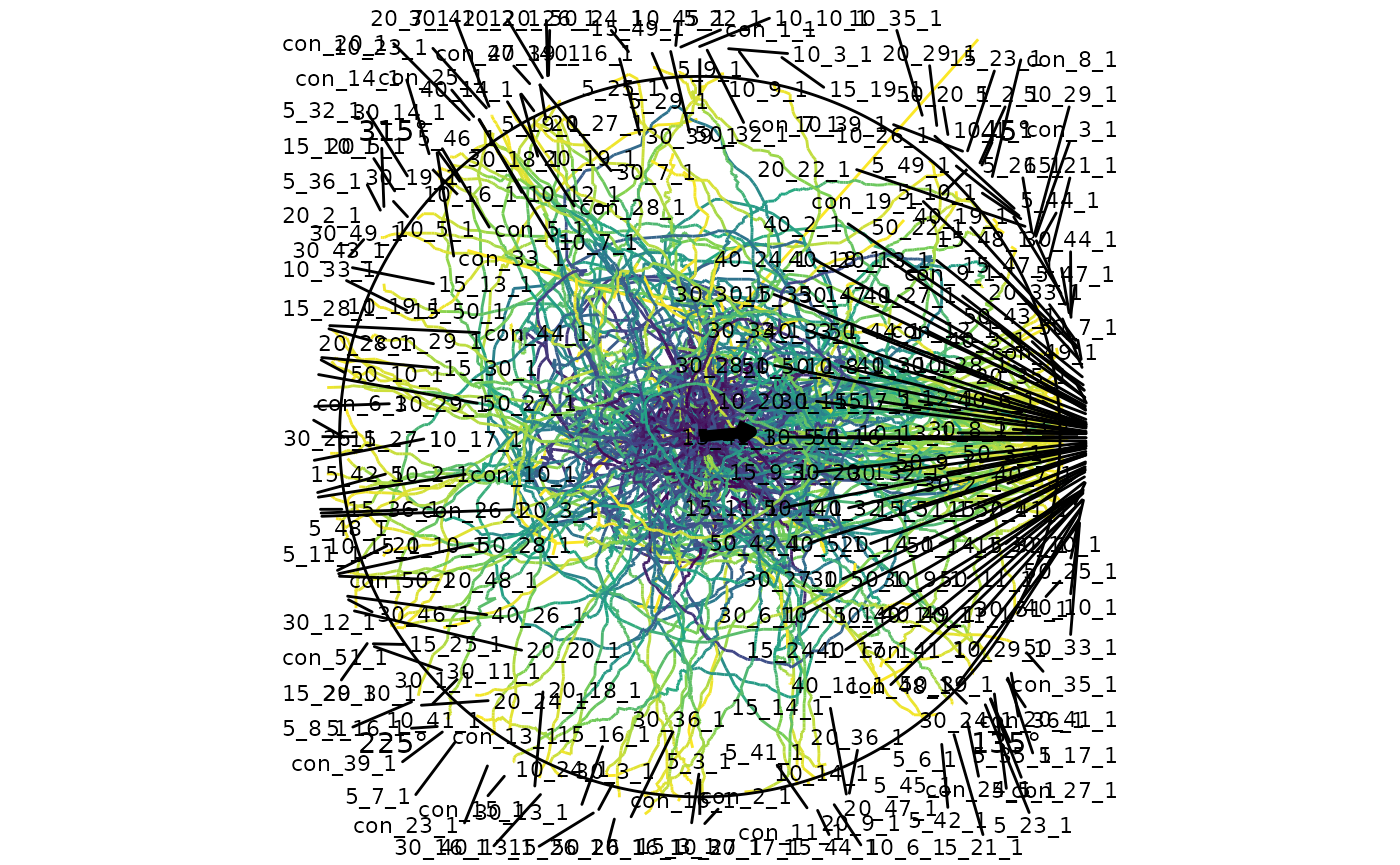
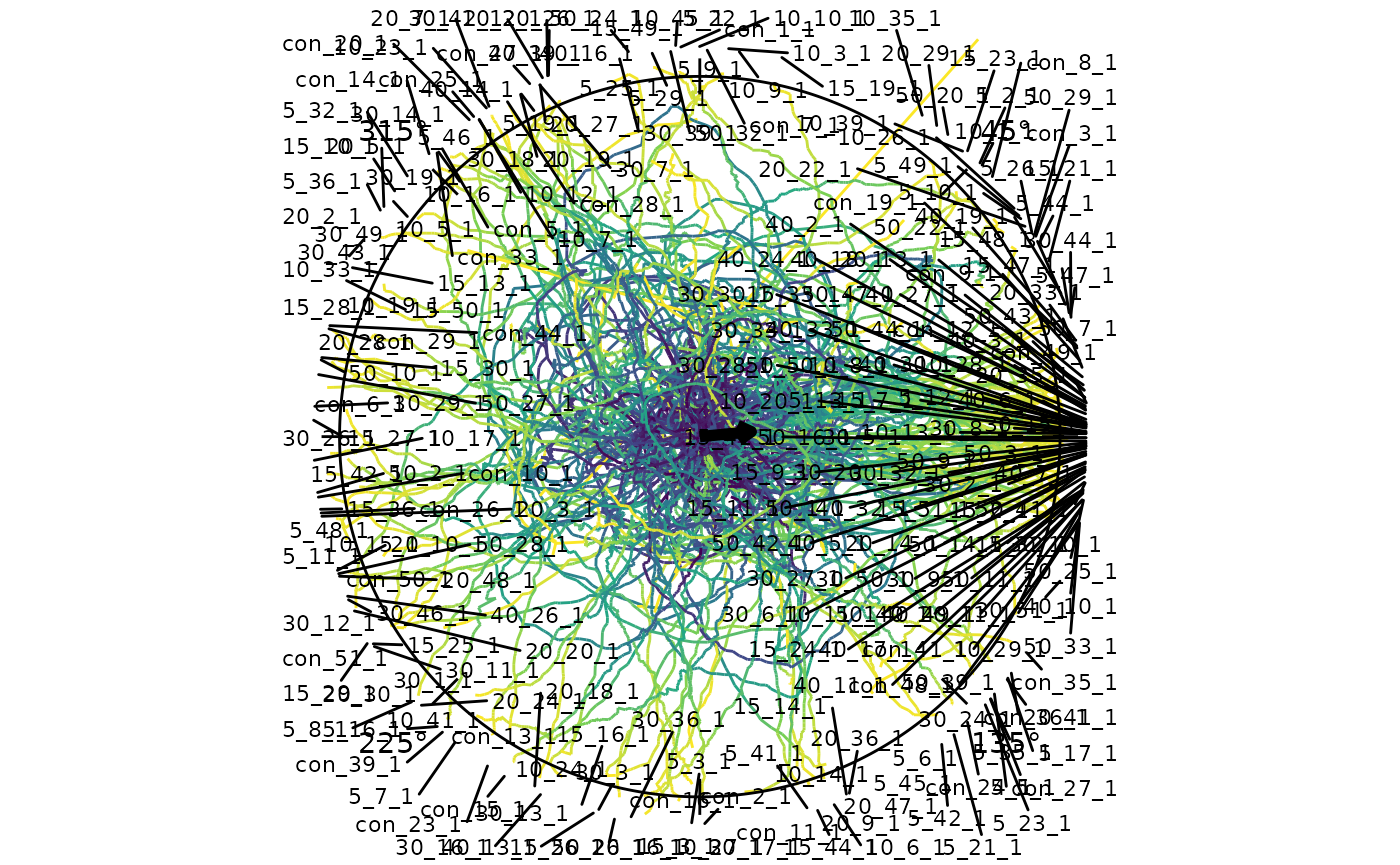
Deploying to gh-pages from @ JohnKirwan/radiatR@0a04ceb08fb45ba0f9b81afa5fa0612525dcaa43 🚀

diff --git a/news/index.html b/news/index.html
@@ -75,6 +75,7 @@
 <div class="section level3">
 <h3 id="shiny-app-development-version">Shiny app<a class="anchor" aria-label="anchor" href="#shiny-app-development-version"></a></h3>
 <ul><li><p>The Results figure’s <strong>Track colour</strong> selector gains “By elapsed time”, with a frame-rate (fps) input; an unset/invalid frame rate falls back to sequence colouring with a note.</p></li>
+<li><p>The Results figure’s <strong>Track colour</strong> selector gains “By speed” (instantaneous speed), sharing the frame-rate input with “By elapsed time”; an unset/invalid frame rate falls back to sequence colouring with a note.</p></li>
 <li><p>The Results figure gains a <strong>Circular boxplot</strong> overlay toggle (directional and axial), wired through the figure-code export so the emitted script reproduces it. The layer toggles now reflow into two columns when space allows, and a note explains when the boxplot is not drawn (near-uniform data or too few points).</p></li>
 </ul></div>
 </div>

diff --git a/news/index.md b/news/index.md
@@ -148,6 +148,11 @@
   time”, with a frame-rate (fps) input; an unset/invalid frame rate
   falls back to sequence colouring with a note.
 
+- The Results figure’s **Track colour** selector gains “By speed”
+  (instantaneous speed), sharing the frame-rate input with “By elapsed
+  time”; an unset/invalid frame rate falls back to sequence colouring
+  with a note.
+
 - The Results figure gains a **Circular boxplot** overlay toggle
   (directional and axial), wired through the figure-code export so the
   emitted script reproduces it. The layer toggles now reflow into two